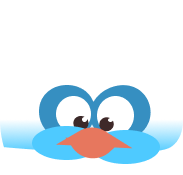
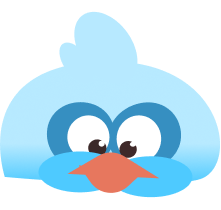
Somewhat resembles the mockup

diff --git a/lib/components/dash.dart b/lib/components/dash.dart
@@ -6,17 +6,25 @@ import 'package:flame/events.dart';
 import 'package:flamejam/game.dart';
 import 'package:flutter/foundation.dart';
 
-class Dash extends PositionComponent
+class Dash extends SpriteComponent
     with DragCallbacks, HasGameReference<MyGame>, CollisionCallbacks {
-  Dash() : super(size: Vector2(224, 130), position: Vector2(-112, -91));
+  Dash({required super.sprite})
+      : super(size: Vector2(220, 210), position: Vector2(-110, -140));
 
   @override
   final bool debugMode = kDebugMode;
 
-
-
-
   @override
   void render(Canvas canvas) {
+    super.render(canvas);
+    // hands
+    canvas.drawOval(
+      const Rect.fromLTWH(-25, 160, 58, 34),
+      Paint()..color = const Color.fromRGBO(54, 143, 193, 1),
+    );
+    canvas.drawOval(
+      const Rect.fromLTWH(200, 160, 58, 34),
+      Paint()..color = const Color.fromRGBO(54, 143, 193, 1),
+    );
   }
 }

diff --git a/lib/game.dart b/lib/game.dart
@@ -39,17 +39,19 @@ class MyGame extends FlameGame {
     tableBackdrop = await imagesLoader.load('table.png');
     tableBackdropFlipped = await imagesLoader.load('table_flipped.png');
 
+    final sprite = await loadSprite('eating_normal_1.png');
+
     countdown = Timer(gameLength);
     clock = Clock(time: countdown.current, gameLength: gameLength);
     fever = Fever(feverGauge: feverGauge);
     thermo = Thermometer(temp: temp);
 
     final foods = [
-      Food(Temperature.hot),
-      Food(Temperature.hot),
-      Food(Temperature.hot),
+      Food(temp: Temperature.hot, position: Vector2(-182, 75)),
+      Food(temp: Temperature.hot, position: Vector2(-32, 86)),
+      Food(temp: Temperature.hot, position: Vector2(108, 75)),
     ];
-    final dash = Dash();
+    final dash = Dash(sprite: sprite);
 
     add(ScreenHitbox());
 

diff --git a/lib/components/plate/food.dart b/lib/components/plate/food.dart
@@ -31,7 +31,7 @@ class Food extends PositionComponent
         CollisionCallbacks,
         TapCallbacks,
         HoverCallbacks {
-  Food(this.temp) : super(size: Vector2(85, 75));
+  Food({required this.temp, super.position}) : super(size: Vector2(85, 75));
 
   final Temperature temp;
   late ShapeHitbox hitbox;
